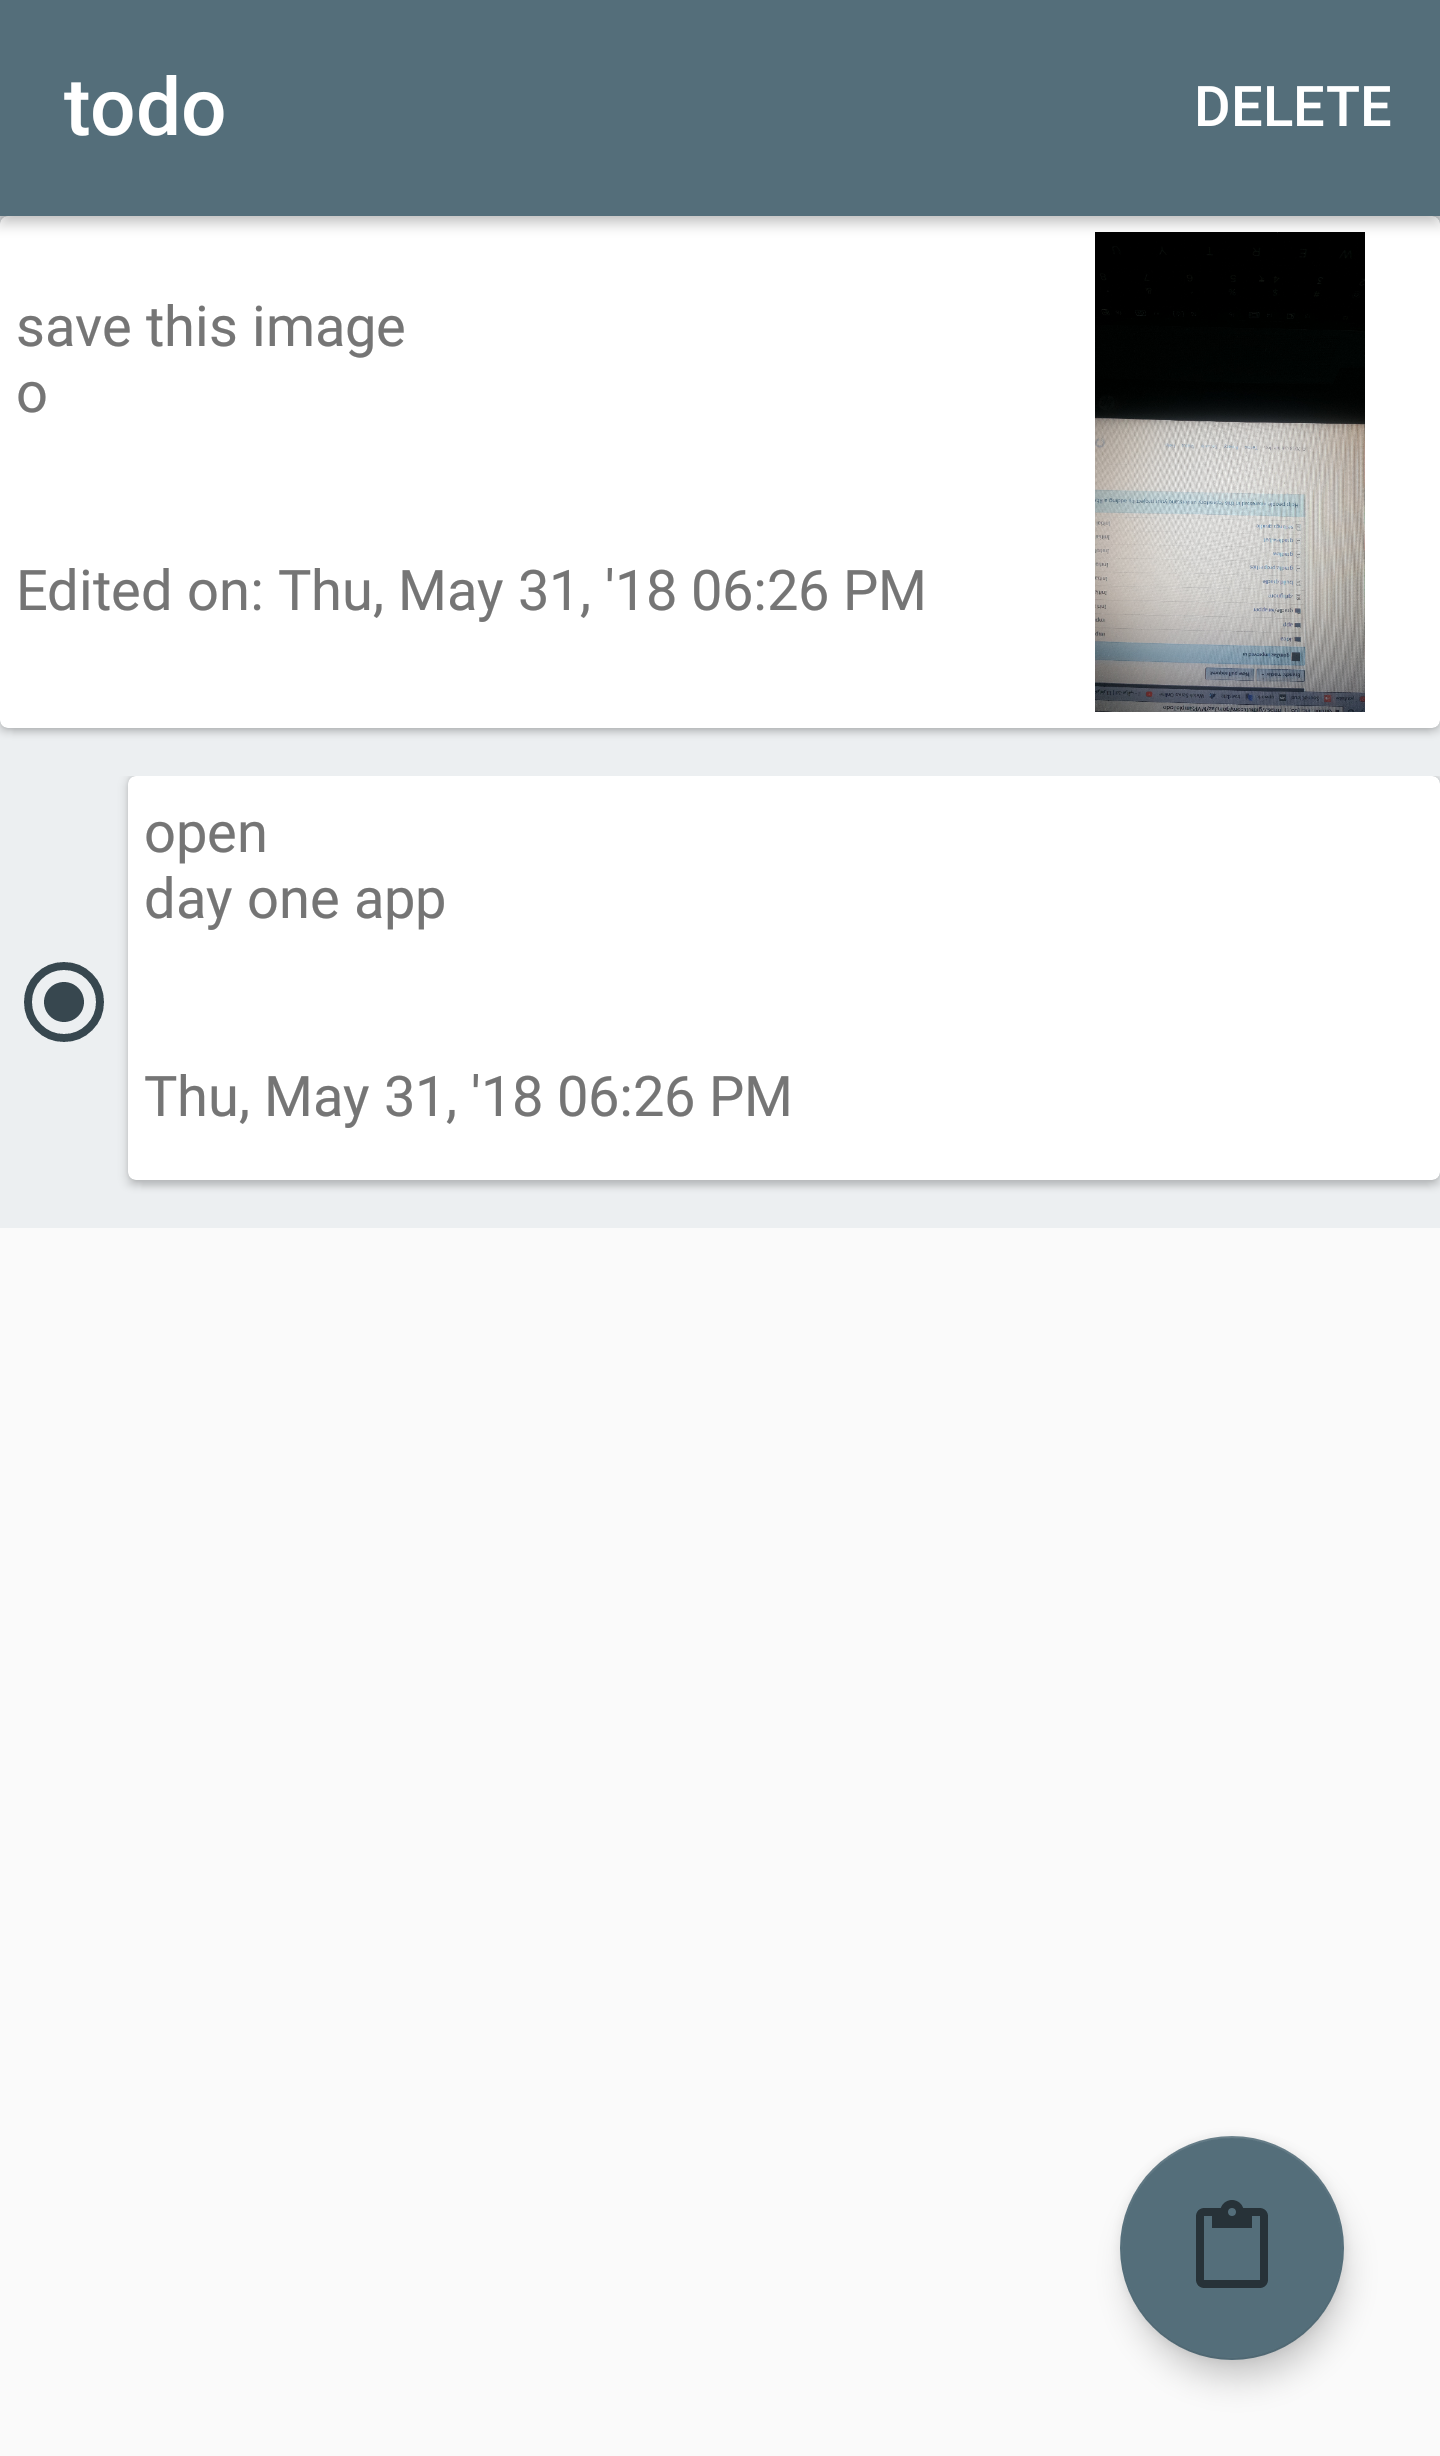
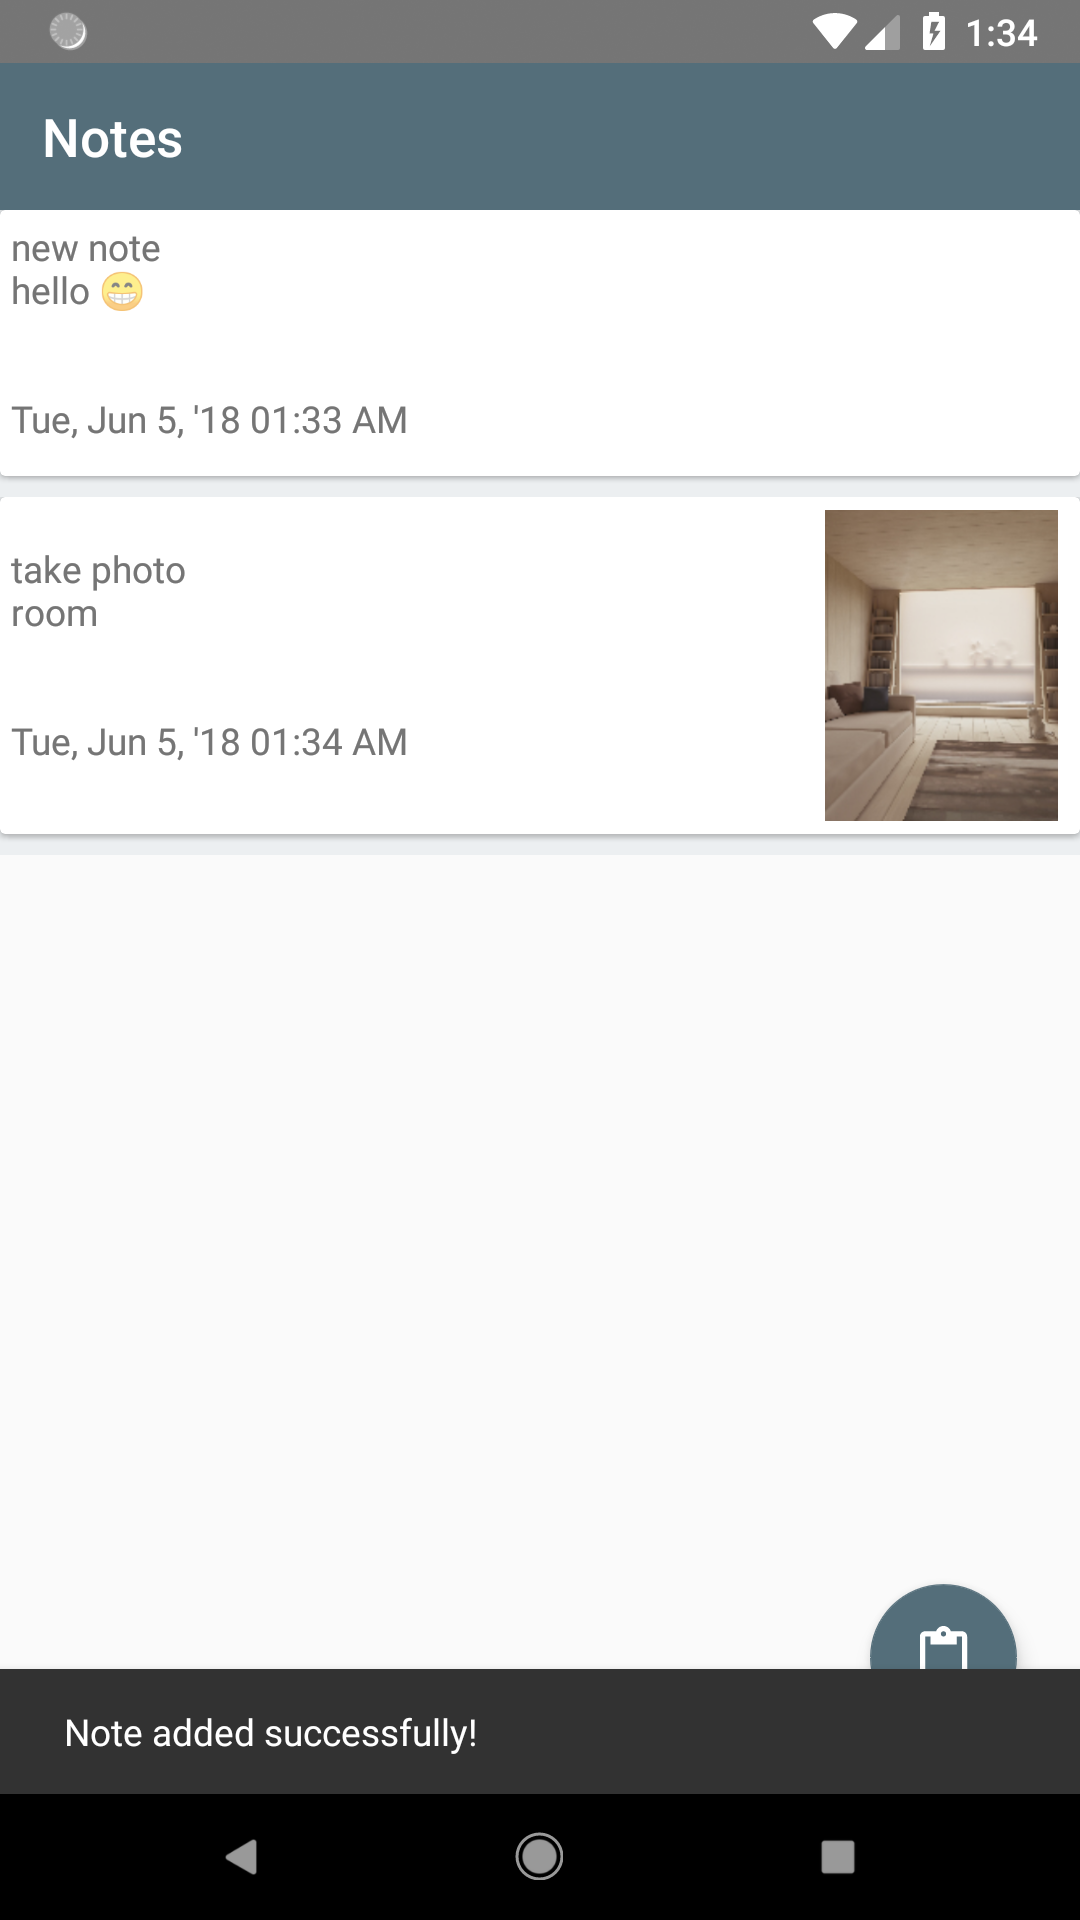
improved ui

diff --git a/app/src/main/java/com/example/mg/todo/ui/NoteFragment/NoteFragment.java b/app/src/main/java/com/example/mg/todo/ui/NoteFragment/NoteFragment.java
@@ -3,8 +3,6 @@ package com.example.mg.todo.ui.NoteFragment;
 import android.content.Context;
 import android.content.Intent;
 import android.graphics.Bitmap;
-import android.graphics.Color;
-import android.graphics.drawable.ColorDrawable;
 import android.os.Bundle;
 import android.support.annotation.NonNull;
 import android.support.annotation.Nullable;
@@ -12,10 +10,10 @@ import android.support.v4.app.DialogFragment;
 import android.view.LayoutInflater;
 import android.view.View;
 import android.view.ViewGroup;
-import android.view.WindowManager;
 import android.widget.Button;
 import android.widget.EditText;
 import android.widget.ImageView;
+import android.widget.LinearLayout;
 import android.widget.Toast;
 
 import com.bumptech.glide.Glide;
@@ -51,6 +49,8 @@ public class NoteFragment extends DialogFragment
     //private static final String TAG = "NoteFragment";
     private static final String KEY_UPDATED = "KEY_UPDATED";
     private static final String KEY_NOTE_MODEL = "KEY_NOTE_MODEL";
+    @BindView(R.id.relative)
+    LinearLayout relativeLayout;
 
     private NoteFragmentPresenter mPresenter;
     private Unbinder unbinder;
@@ -80,8 +80,7 @@ public class NoteFragment extends DialogFragment
     @Override
     public void onCreate(@Nullable Bundle savedInstanceState) {
         super.onCreate(savedInstanceState);
-        setStyle(DialogFragment.STYLE_NORMAL, android.R.style.Theme_DeviceDefault_Light_NoActionBar_Fullscreen);
-
+        setStyle(DialogFragment.STYLE_NORMAL, R.style.dialog_slide_animation);
     }
 
     @Override
@@ -92,16 +91,15 @@ public class NoteFragment extends DialogFragment
         btnAddImage.setOnClickListener(this);
         btnCloseDialog.setOnClickListener(this);
         mPresenter = new NoteFragmentPresenter(this, mNote);
-
         return v;
     }
 
     @Override
     public void onViewCreated(@NonNull View view, @Nullable Bundle savedInstanceState) {
         super.onViewCreated(view, savedInstanceState);
-        Objects.requireNonNull(getDialog().getWindow()).setBackgroundDrawable(new ColorDrawable(Color.TRANSPARENT));
-        getDialog().getWindow().setSoftInputMode(WindowManager.LayoutParams.SOFT_INPUT_STATE_VISIBLE);
-        getDialog().getWindow().setWindowAnimations(R.style.dialog_slide_animation);
+        Objects.requireNonNull(getDialog()
+                .getWindow())
+                .setWindowAnimations(R.style.dialog_slide_animation);
         if (savedInstanceState != null) {
             mUpdated = savedInstanceState.getInt(KEY_UPDATED);
             mNote = savedInstanceState.getParcelable(KEY_NOTE_MODEL);
@@ -142,7 +140,6 @@ public class NoteFragment extends DialogFragment
     @Override
     public void onActivityResult(int requestCode, int resultCode, Intent data) {
         mPresenter.onActivityResult(requestCode, resultCode, data);
-
     }
 
     @Override
@@ -157,7 +154,7 @@ public class NoteFragment extends DialogFragment
 
     @Override
     public void onCancelImageCapture() {
-        Toast.makeText(this.getContext(), "request canceled", Toast.LENGTH_SHORT).show();
+        Toast.makeText(getContext(), "request canceled", Toast.LENGTH_SHORT).show();
     }
 
     @Override

diff --git a/app/src/main/java/com/example/mg/todo/ui/NotesActivity/NotesActivity.java b/app/src/main/java/com/example/mg/todo/ui/NotesActivity/NotesActivity.java
@@ -10,7 +10,6 @@ import android.support.v7.widget.Toolbar;
 import android.view.Menu;
 import android.view.MenuItem;
 import android.widget.RelativeLayout;
-import android.widget.TextView;
 
 import com.example.mg.todo.R;
 import com.example.mg.todo.data.model.NoteModel;
@@ -35,8 +34,6 @@ public class NotesActivity extends AppCompatActivity
     @BindView(R.id.toolbar)
     public
     Toolbar toolbar;
-    @BindView(R.id.text_selected_count)
-    public TextView selectedCount;
     @BindView(R.id.relative_layout)
     RelativeLayout relativeLayout;
 
